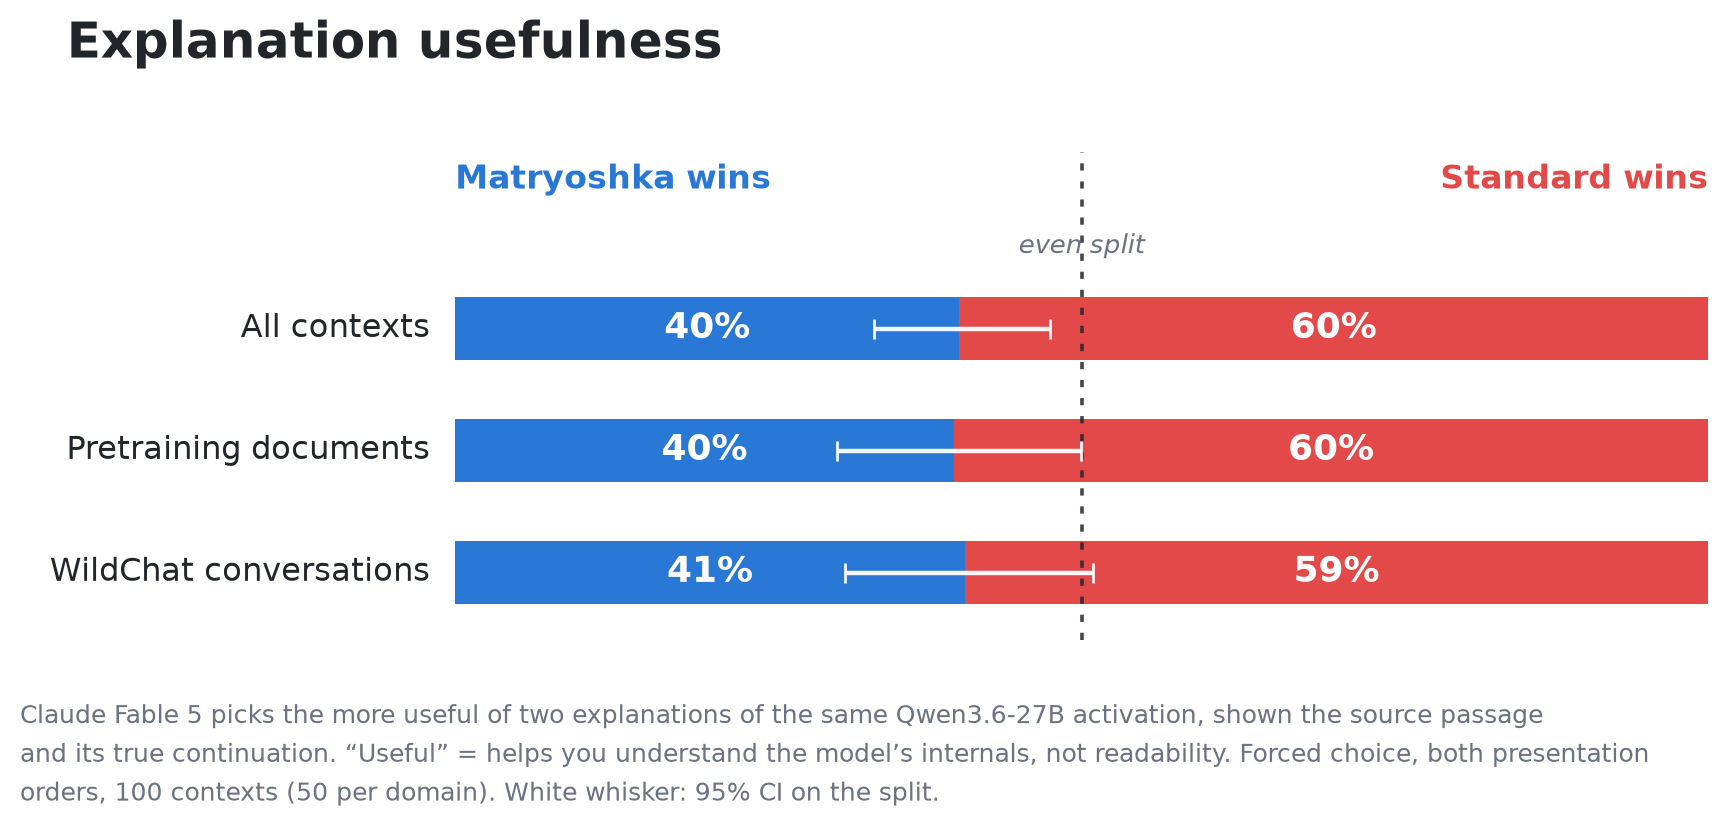
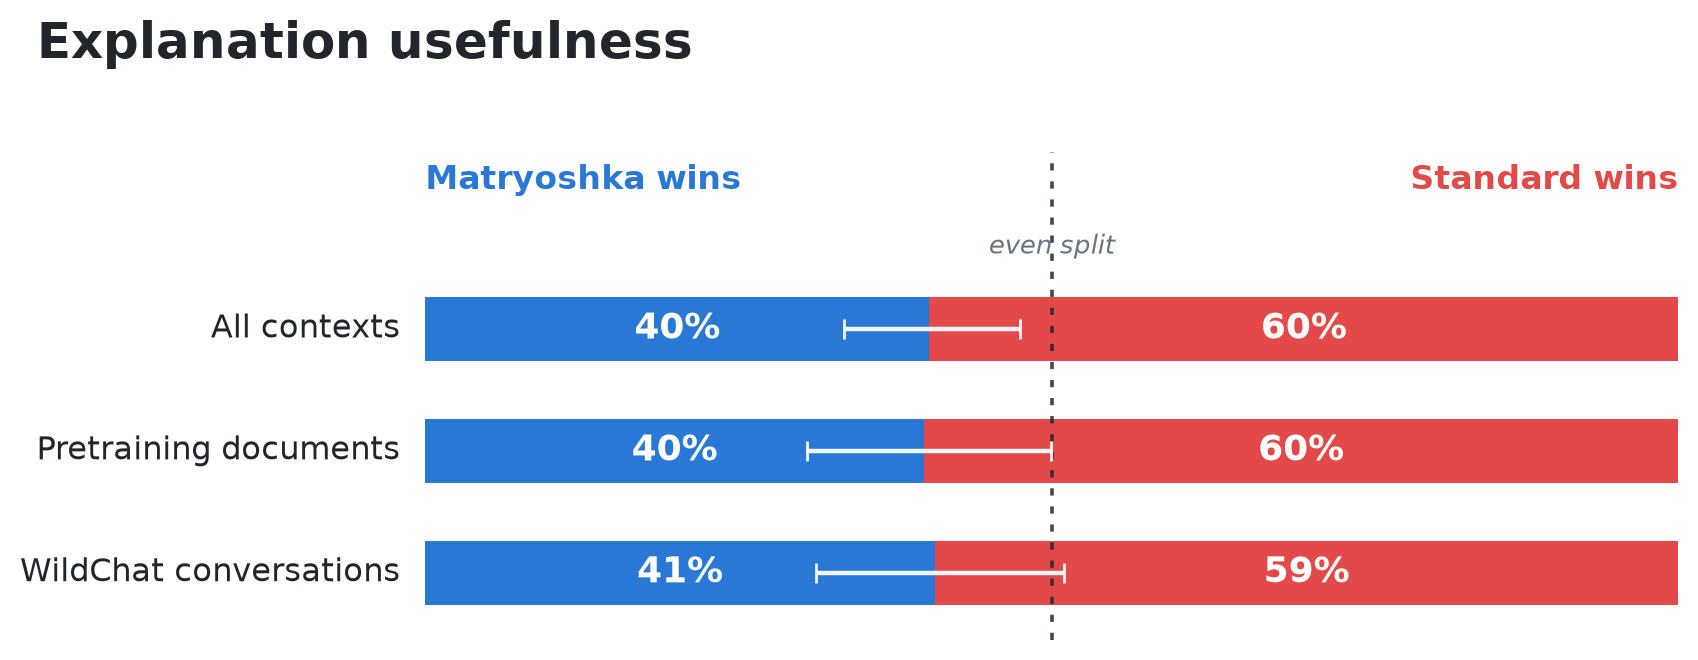
📊 drop figure footer (methodology moves to post text)
Claude-Session: https://claude.ai/code/session_016mZoE5r73zpRomNLbakUWu

diff --git a/experiments/qwen3.6-27b-expl-quality/plot_usefulness_blog.py b/experiments/qwen3.6-27b-expl-quality/plot_usefulness_blog.py
@@ -77,14 +77,6 @@ def main():
 
     ax.set_title("Explanation usefulness", fontsize=18, fontweight="bold",
                  loc="left", pad=34, x=-0.31)
-    fig.text(0.001, -0.04,
-             "Claude Fable 5 picks the more useful of two explanations of the same "
-             "Qwen3.6-27B activation, shown the source passage\nand its true "
-             "continuation. “Useful” = helps you understand the model’s "
-             "internals, not readability. Forced choice, both presentation\n"
-             "orders, 100 contexts (50 per domain). White whisker: 95% CI on the "
-             "split.",
-             fontsize=9, color=MUTED, ha="left", va="top", linespacing=1.55)
     fig.tight_layout()
     out = HERE / "results" / "fig_usefulness_blog.png"
     fig.savefig(out, dpi=200, bbox_inches="tight", facecolor="white")
